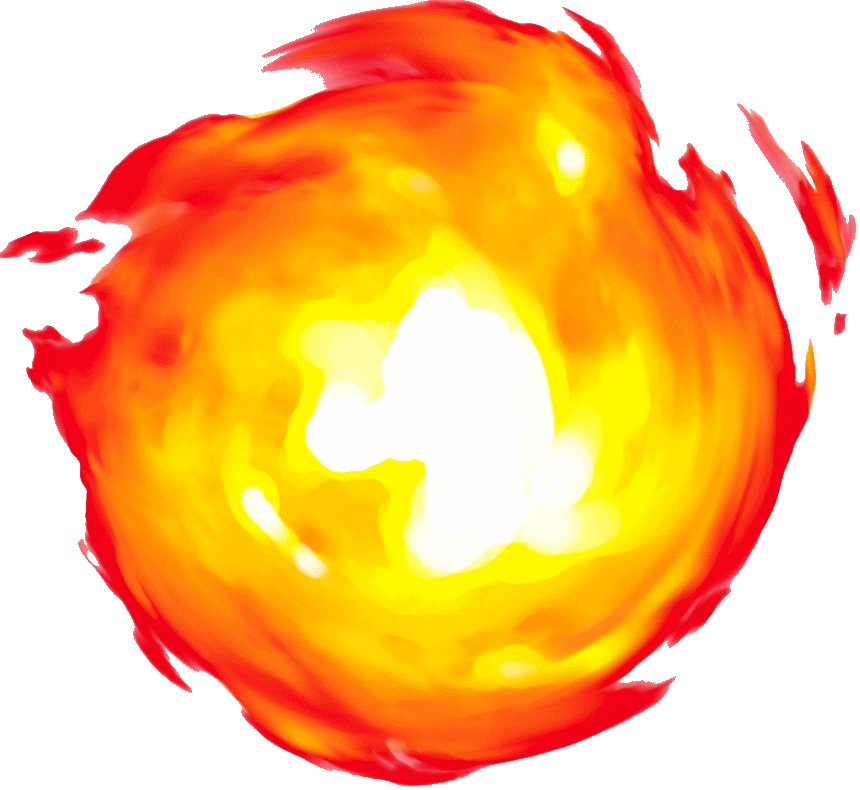
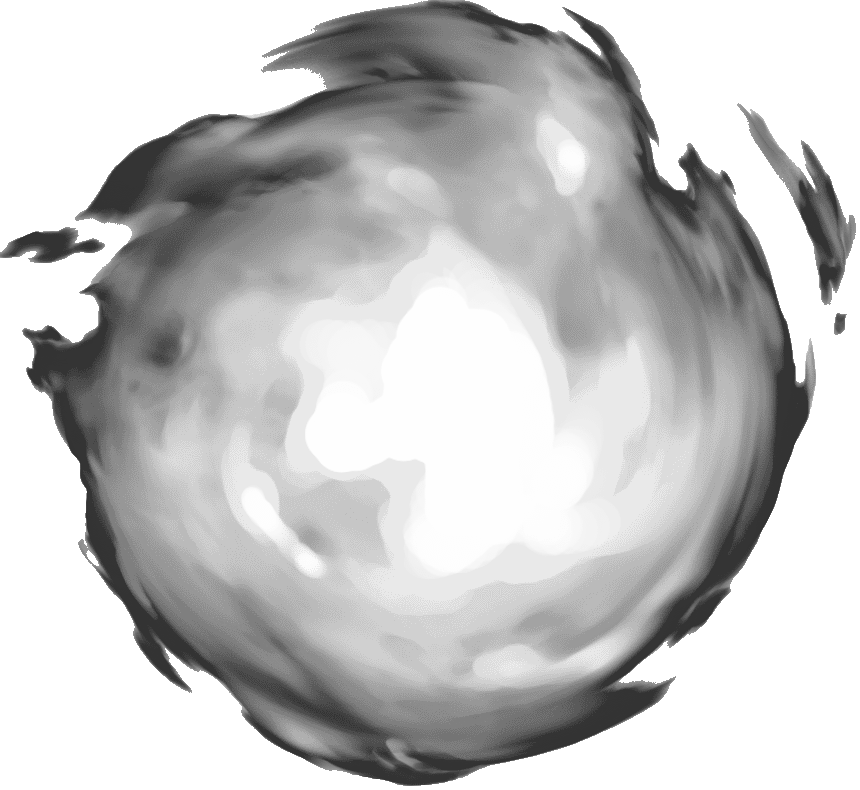
Add color to all shots except FlipShot

diff --git a/src/client/presentation/ClientBall.cpp b/src/client/presentation/ClientBall.cpp
@@ -35,30 +35,33 @@ void ClientBall::update(ClientBallState _state) {
     state = std::move(_state);
 }
 
-// TODO: get color from a map depending the shotType and update texture
 void ClientBall::renderShot(SDL2pp::Renderer &renderer, int posX, int posY, int radius) {
-	if (this->last_shot == shot_type::NONE ||
-		this->shot_steps > MAX_SHOT_STEPS) {
+	if (last_shot == shot_type::NONE ||
+		shot_steps > MAX_SHOT_STEPS) {
 		
-		this->last_shot = state.get_shot_type();
-		this->shot_steps = 0;
+		last_shot = state.get_shot_type();
+		shot_steps = 0;
 	}
 
-	switch (this->last_shot) {
+	switch (last_shot) {
+        case NONE:
+            return;
+
 		case FLIP_SHOT:
+            // TODO: add other sprite
 			break;
 		
 		case PURPLE_SHOT:
+            shotTexture.SetColorMod(127,0,255);
 			break;
-		
+
 		case RED_SHOT:
+            shotTexture.SetColorMod(255,0,127);
 			break;
 		
 		case GOLD_SHOT:
+            shotTexture.SetColorMod(255,255,0);
 			break;
-
-		case NONE:
-			return;
 	}
 
     int diameter = int(((float)radius*2)*1.5); // 50% bigger than ball
